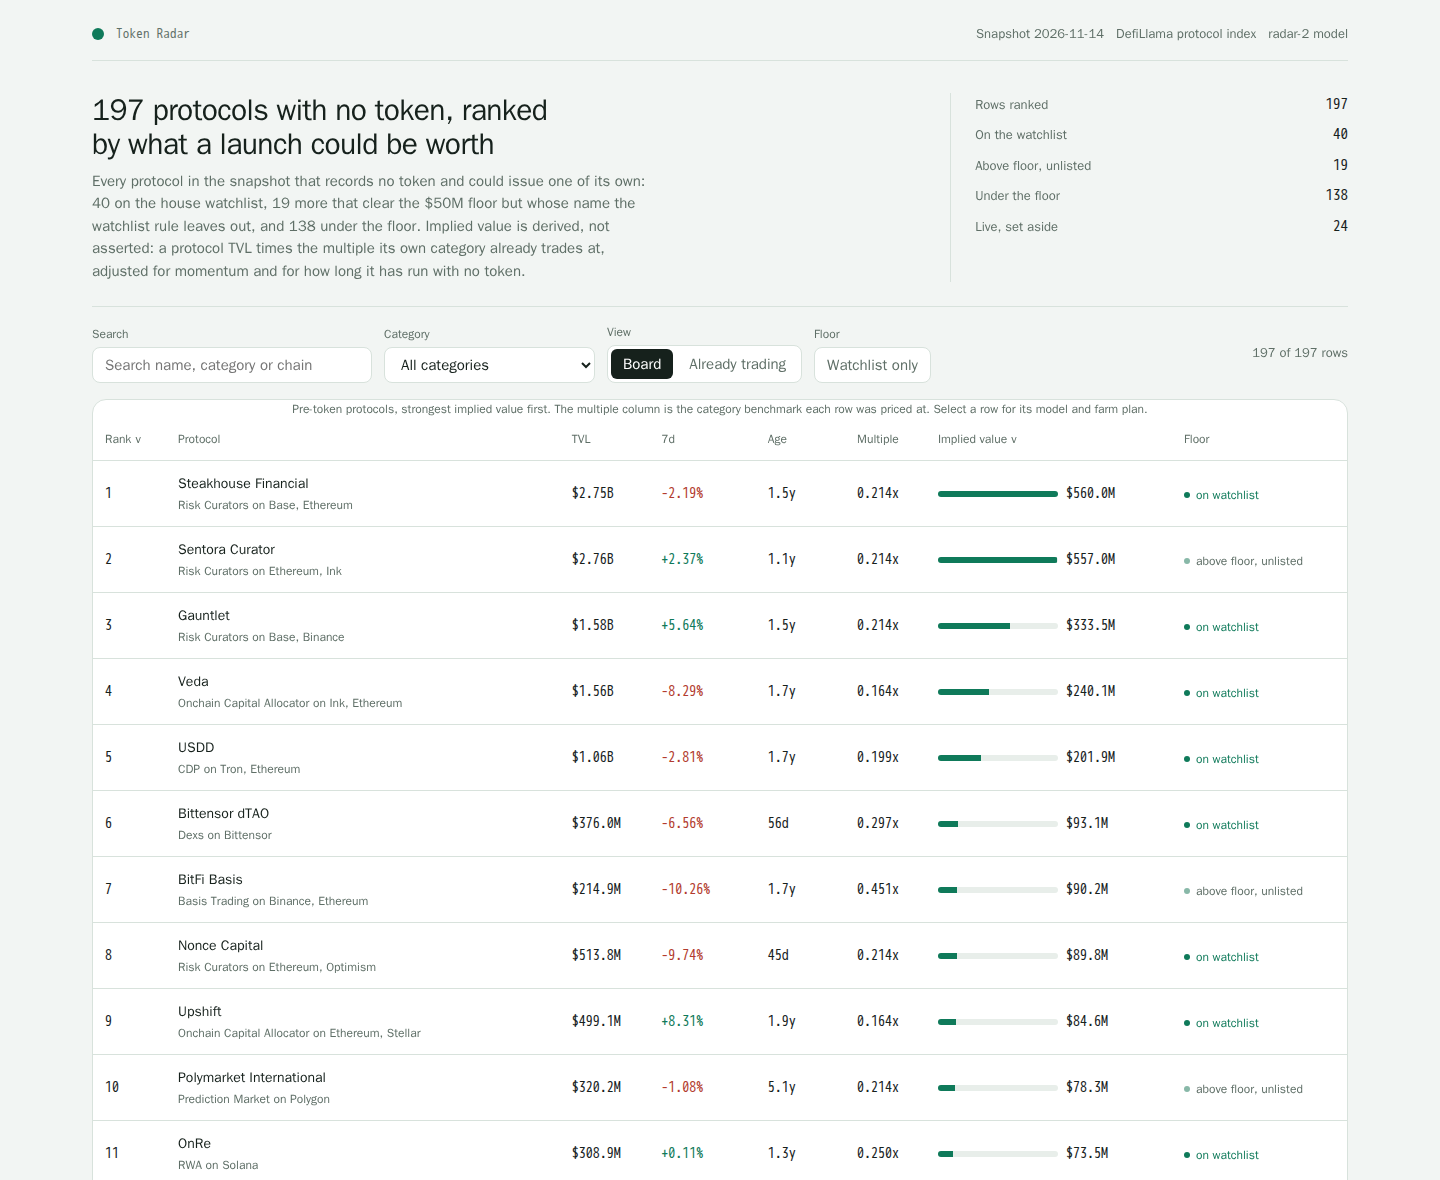
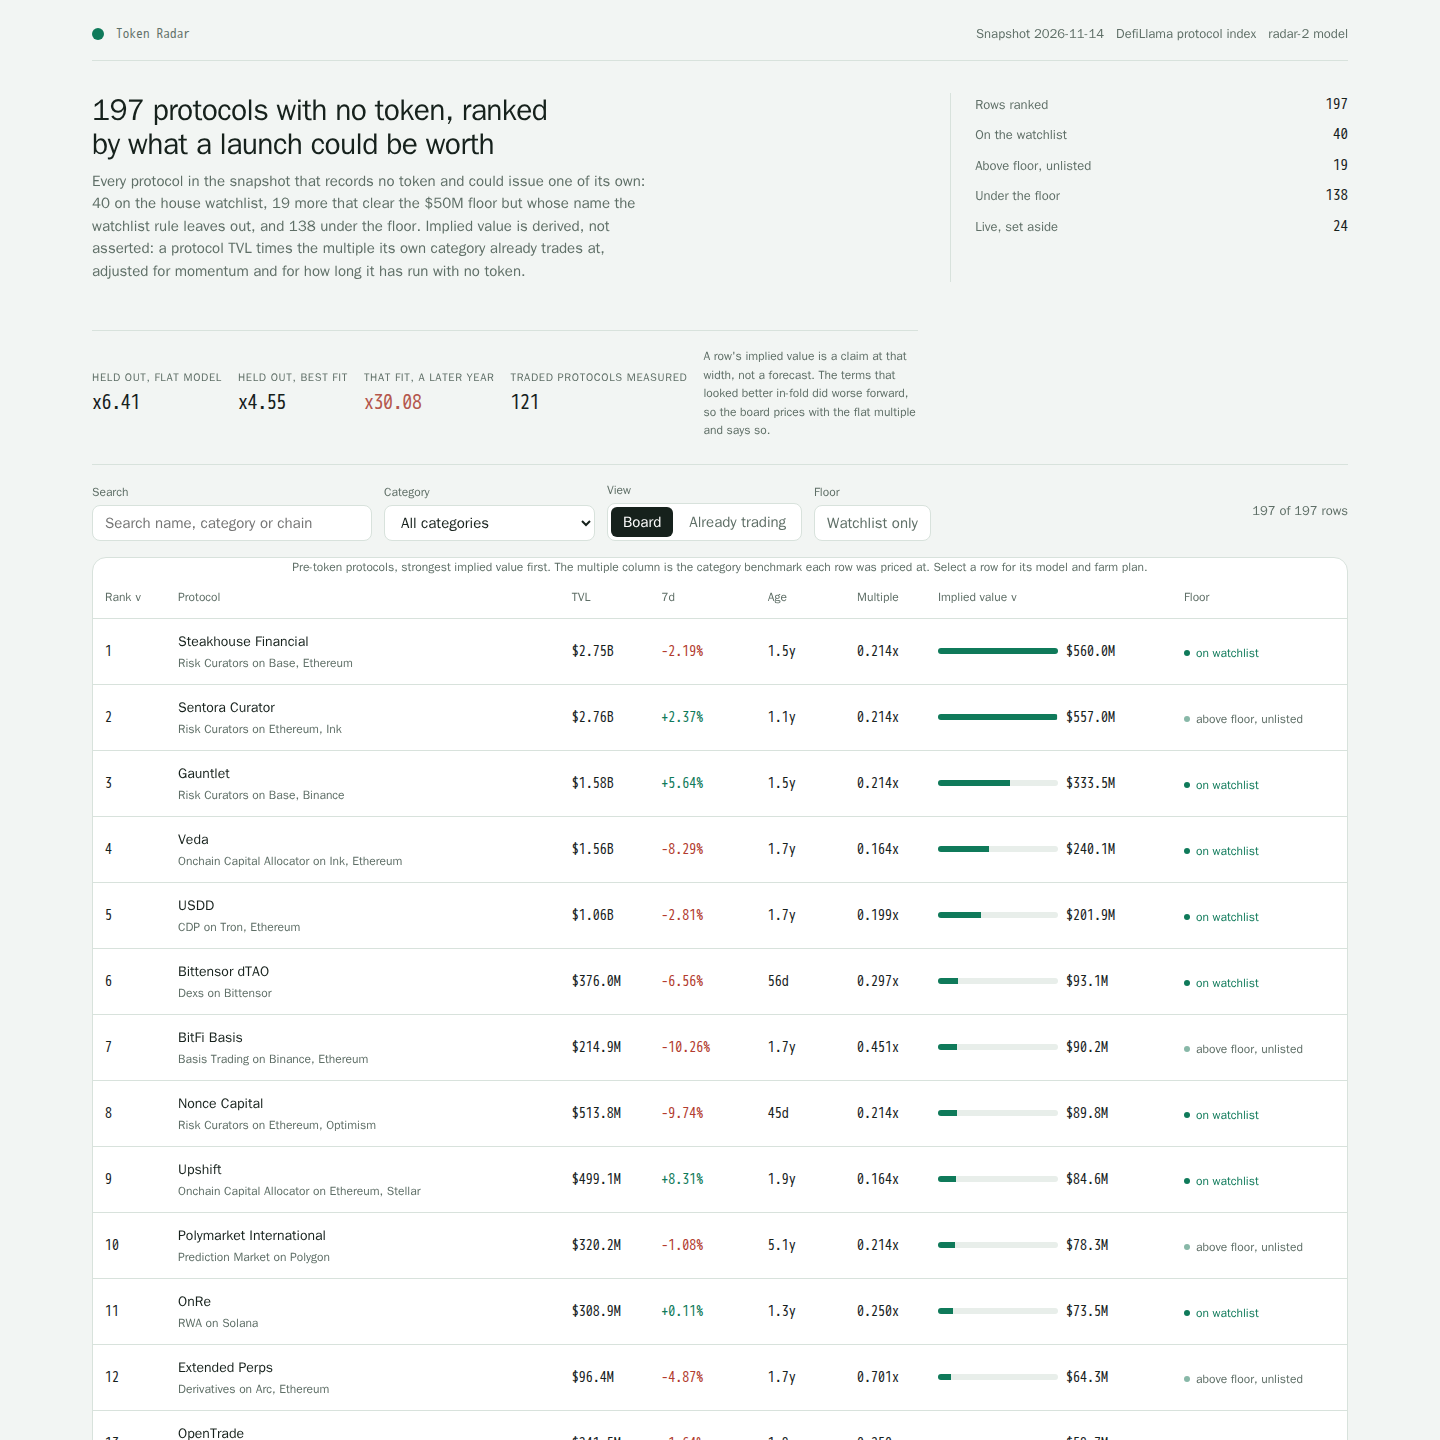
Print the model's backtest and its forward failure on the page

diff --git a/dashboard/app.js b/dashboard/app.js
@@ -192,6 +192,43 @@
         el('div', { class: 'fact' }, el('span', { text: 'Above floor, unlisted' }), el('b', { class: 'num', text: String(above) })),
         el('div', { class: 'fact' }, el('span', { text: 'Under the floor' }), el('b', { class: 'num', text: String(below) })),
         el('div', { class: 'fact' }, el('span', { text: 'Live, set aside' }), el('b', { class: 'num', text: String(DATA.live_size) }))
+      ),
+      errorStrip()
+    );
+  }
+
+  /**
+   * The error strip: the headline number a reader needs before trusting any row above.
+   *
+   * It is the honest summary of the panel below — the flat model's held-out error, the forward
+   * error of the four-term model that lost, and the dropdown's own note — in three tiles, so the
+   * page states how wrong it is before it states what it thinks.
+   */
+  function errorStrip() {
+    var E = DATA.evidence;
+    if (!E) return el('div', null);
+    var flat = E.kfold.filter(function (k) { return k.term.indexOf('flat') === 0; })[0];
+    var best = E.kfold.reduce(function (a, b) { return b.fold_error < a.fold_error ? b : a; }, E.kfold[0]);
+    var fw = E.forward.slice(-1)[0];
+    return el('div', { class: 'errstrip' },
+      el('div', { class: 'errtile' },
+        el('span', { text: 'Held out, flat model' }),
+        el('b', { class: 'num', text: flat ? 'x' + flat.fold_error.toFixed(2) : 'n/a' })
+      ),
+      el('div', { class: 'errtile' },
+        el('span', { text: 'Held out, best fit' }),
+        el('b', { class: 'num', text: 'x' + best.fold_error.toFixed(2) })
+      ),
+      el('div', { class: 'errtile bad' },
+        el('span', { text: 'That fit, a later year' }),
+        el('b', { class: 'num', text: fw ? 'x' + fw.with_terms.toFixed(2) : 'n/a' })
+      ),
+      el('div', { class: 'errtile' },
+        el('span', { text: 'Traded protocols measured' }),
+        el('b', { class: 'num', text: String(E.evidence_n) })
+      ),
+      el('div', { class: 'errnote' },
+        el('span', { text: 'A row\'s implied value is a claim at that width, not a forecast. The terms that looked better in-fold did worse forward, so the board prices with the flat multiple and says so.' })
       )
     );
   }
@@ -415,6 +452,88 @@
     }
   }
 
+  /**
+   * The evidence panel: the model's own backtest, printed with the way each figure was measured.
+   *
+   * The two tables are deliberately not merged. A k-fold figure and a forward figure answer
+   * different questions, and this page says so rather than quoting the better-looking one.
+   */
+  function evidencePanel() {
+    var E = DATA.evidence;
+    if (!E) return el('div', null);
+    var kf = el('table', { class: 'bench' },
+      el('thead', null, el('tr', null,
+        el('th', { text: 'Term, added in order' }),
+        el('th', { class: 'num', text: '5-fold error' })
+      )),
+      el('tbody', null, E.kfold.map(function (k) {
+        return el('tr', null,
+          el('td', { text: k.term }),
+          el('td', { class: 'num', text: 'x' + k.fold_error.toFixed(2) })
+        );
+      }))
+    );
+    var fw = el('table', { class: 'bench' },
+      el('thead', null, el('tr', null,
+        el('th', { text: 'Listed in' }),
+        el('th', { class: 'num', text: 'n' }),
+        el('th', { class: 'num', text: 'Flat' }),
+        el('th', { class: 'num', text: 'Four terms' })
+      )),
+      el('tbody', null, E.forward.map(function (f) {
+        return el('tr', null,
+          el('td', { text: String(f.year) }),
+          el('td', { class: 'num', text: String(f.n) }),
+          el('td', { class: 'num', text: 'x' + f.model.toFixed(2) }),
+          el('td', { class: 'num bad', text: 'x' + f.with_terms.toFixed(2) })
+        );
+      }))
+    );
+    var odds = el('table', { class: 'bench' },
+      el('thead', null, el('tr', null,
+        el('th', { text: 'Tokenless for' }),
+        el('th', { class: 'num', text: 'No token' }),
+        el('th', { class: 'num', text: 'Token trades' })
+      )),
+      el('tbody', null, E.odds.map(function (o) {
+        return el('tr', null,
+          el('td', { text: o.band }),
+          el('td', { class: 'num', text: String(o.tokenless) }),
+          el('td', { class: 'num', text: String(o.traded) })
+        );
+      }))
+    );
+    return el('section', { class: 'panel evidence' },
+      el('h2', { text: 'Why these numbers, and how wrong they are' }),
+      el('p', { text: 'The snapshot holds ' + E.evidence_n + ' protocols that already trade, out of ' + E.protocol_n + '. Their market cap over their TVL is the only evidence in the file about what a protocol is worth, so every figure below is measured on them and on nothing else.' }),
+      el('div', { class: 'two' },
+        el('div', null,
+          el('h3', { text: 'Does each term earn its place?' }),
+          kf,
+          el('p', { class: 'sub', text: E.kfold_note })
+        ),
+        el('div', null,
+          el('h3', { text: 'Does it survive a later year?' }),
+          fw,
+          el('p', { class: 'sub', text: E.forward_note })
+        )
+      ),
+      el('p', { class: 'verdict', text: E.verdict }),
+      el('div', { class: 'two' },
+        el('div', null,
+          el('h3', { text: 'How long protocols stay tokenless' }),
+          odds,
+          el('p', { class: 'sub', text: 'Counts at or above the $' + Math.round(DATA.floor_usd / 1e6) + 'M floor. A protocol that has run this long without a token is not proof it will not issue one, and the radar never says it will.' })
+        ),
+        el('div', null,
+          el('h3', { text: 'What the error means for a row' }),
+          el('p', { text: 'A fold error of x4.6 means the model\'s implied value is typically within a factor of about 4.6 of the real cap, in either direction. The Implied value column is a claim at that width, not a forecast, and the P25 to P75 band in each detail view is drawn at that width.' }),
+          el('p', { class: 'sub', text: 'Measured on ' + E.measured_on + ' by the entry\'s own lab, from this snapshot alone.' })
+        )
+      )
+    );
+  }
+
   function render() {
     app.textContent = '';
     var shell = el('div', { class: 'shell' });
@@ -423,6 +542,7 @@
     shell.appendChild(controls());
     shell.appendChild(state.tab === 'board' ? boardTable() : liveTable());
     if (state.tab === 'board') {
+      shell.appendChild(evidencePanel());
       shell.appendChild(benchmarkPanel());
       shell.appendChild(modelPanel());
     }

diff --git a/dashboard/app.css b/dashboard/app.css
@@ -163,3 +163,27 @@ tbody tr[data-selected="true"] { background: color-mix(in srgb, var(--accent) 8%
 @media (prefers-reduced-motion: reduce) {
   *, *::before, *::after { transition-duration: 0.01ms !important; animation-duration: 0.01ms !important; animation-iteration-count: 1 !important; }
 }
+
+/* The evidence panel: the model's backtest, printed with its own error. */
+.evidence { margin-top: var(--step-4); padding: var(--step-5); display: grid; gap: var(--step-3); }
+.evidence h2 { font-size: 20px; letter-spacing: -0.01em; }
+.evidence h3 { font-size: 13px; text-transform: none; letter-spacing: 0; color: var(--ink); font-weight: 600; margin-bottom: var(--step-1); }
+.evidence .two { display: grid; grid-template-columns: 1fr 1fr; gap: var(--step-5); }
+.evidence .bench { margin: 0; padding: 0; display: block; }
+.evidence table { font-size: 13px; border: 1px solid var(--border); border-radius: var(--radius-control); }
+.evidence th { text-align: left; font-weight: 500; color: var(--muted); font-size: 11px; text-transform: uppercase; letter-spacing: 0.06em; padding: 6px 10px; border-bottom: 1px solid var(--border); }
+.evidence td { padding: 6px 10px; border-bottom: 1px solid color-mix(in srgb, var(--border) 55%, transparent); }
+.evidence tr:last-child td { border-bottom: 0; }
+.evidence td.bad { color: #b4574c; }
+.evidence .sub { font-size: 12px; line-height: 1.55; margin-top: var(--step-2); }
+.evidence .verdict { border-left: 3px solid var(--accent); padding: var(--step-2) 0 var(--step-2) var(--step-3); margin: var(--step-1) 0; font-size: 13px; color: var(--ink); background: color-mix(in srgb, var(--accent) 6%, transparent); }
+@media (max-width: 900px) { .evidence .two { grid-template-columns: 1fr; } }
+
+/* The error strip inside the lede: how wrong the model is, before what it thinks. */
+.errstrip { display: grid; grid-template-columns: repeat(4, auto) 1fr; gap: var(--step-4); align-items: center; margin-top: var(--step-4); padding-top: var(--step-4); border-top: 1px solid var(--border); }
+.errtile { display: grid; gap: 2px; }
+.errtile span { color: var(--muted); font-size: 11px; text-transform: uppercase; letter-spacing: 0.06em; }
+.errtile b { font-family: var(--font-num); font-size: 20px; font-weight: 500; letter-spacing: -0.02em; }
+.errtile.bad b { color: #b4574c; }
+.errnote { color: var(--muted); font-size: 12px; line-height: 1.55; max-width: 52ch; }
+@media (max-width: 1100px) { .errstrip { grid-template-columns: repeat(2, 1fr); } }

diff --git a/main.ts b/main.ts
@@ -52,6 +52,17 @@ if (issue !== null) {
 
 mkdirSync(out, { recursive: true });
 writeFileSync(join(out, 'board.json'), `${JSON.stringify({ rows: board })}\n`);
+
+/**
+ * The model's backtest rides with the page, so the dashboard can print evidence the program
+ * itself did not invent. It is a committed file measured from this snapshot's traded protocols;
+ * if it is missing the page still renders, without the evidence panel.
+ */
+const evidenceFile = join(here, 'dashboard', 'evidence.json');
+if (existsSync(evidenceFile)) {
+  radar.evidence = JSON.parse(readFileSync(evidenceFile, 'utf8'));
+}
+
 writeFileSync(join(out, 'data.js'), dataScript(radar));
 
 /** Copy one directory's regular files into `to`, skipping names that start with a dot. */

diff --git a/lib/model.ts b/lib/model.ts
@@ -175,6 +175,8 @@ export interface RadarData {
   benchmarks: Benchmark[];
   rows: RadarRow[];
   live: LiveRow[];
+  /** The model's backtest, measured by the entry's own lab and committed beside the page. */
+  evidence?: unknown;
 }
 
 /** Why the snapshot is not one this model can score. */
